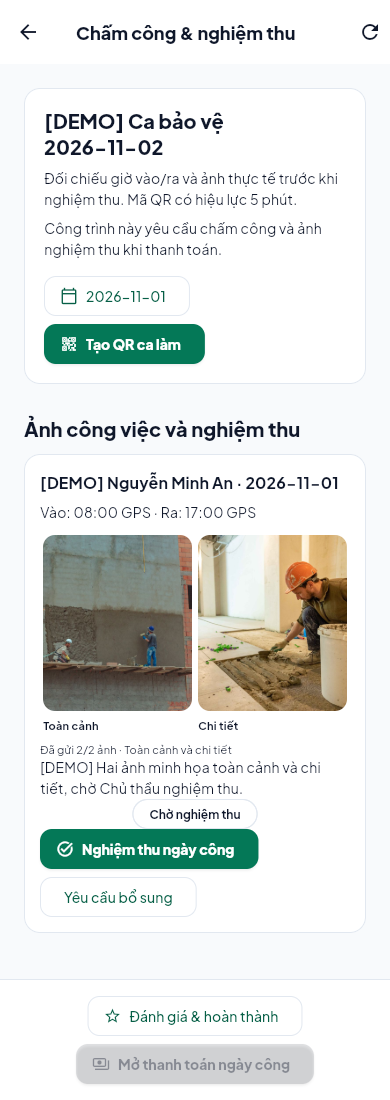
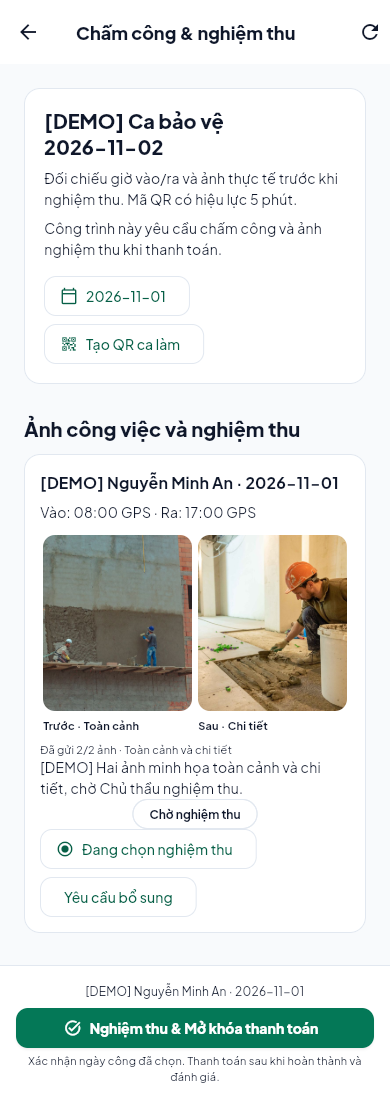
feat: hoan thien bo cuc gon va cap nhat 20 man hinh Tho Xay

diff --git a/mobile_app/lib/widgets/job_card.dart b/mobile_app/lib/widgets/job_card.dart
@@ -35,11 +35,36 @@ class JobCard extends StatelessWidget {
   Widget build(BuildContext context) {
     final palette = AppPalette.of(context);
     final color = Theme.of(context).colorScheme.primary;
+    void open() {
+      if (onTap != null) {
+        onTap!();
+      } else {
+        showJobDetails<void>(
+          context,
+          job,
+          api: api,
+          canContactContractor: canContactContractor,
+          action: action,
+          actionBuilder: detailsActionBuilder,
+        );
+      }
+    }
+
+    Widget detailsLink() => TextButton.icon(
+      style: TextButton.styleFrom(
+        padding: EdgeInsets.zero,
+        minimumSize: const Size(44, 40),
+        visualDensity: VisualDensity.compact,
+      ),
+      onPressed: open,
+      icon: const Icon(Icons.arrow_outward_rounded, size: 14),
+      label: const Text('Xem chi tiết'),
+    );
     return Padding(
       padding: const EdgeInsets.only(bottom: 12),
       child: DesignReveal(
         child: InkWell(
-          onTap: previewOnly ? onTap : null,
+          onTap: previewOnly ? open : null,
           borderRadius: BorderRadius.circular(16),
           child: DesignSurface(
             padding: const EdgeInsets.all(16),
@@ -93,12 +118,36 @@ class JobCard extends StatelessWidget {
                 ),
                 const SizedBox(height: 8),
                 Text(
-                  '${job.address} · ${job.jobType} · ${job.requiredWorkers} thợ',
+                  previewOnly
+                      ? job.address
+                      : '${job.address} · ${job.jobType} · ${job.requiredWorkers} thợ',
                   maxLines: 2,
                   overflow: TextOverflow.ellipsis,
                   style: TextStyle(fontSize: 11, color: palette.muted),
                 ),
-                if (job.startsOn != null)
+                if (previewOnly)
+                  Padding(
+                    padding: const EdgeInsets.only(top: 8),
+                    child: Container(
+                      padding: const EdgeInsets.symmetric(
+                        horizontal: 8,
+                        vertical: 4,
+                      ),
+                      decoration: BoxDecoration(
+                        color: color.withValues(alpha: .08),
+                        borderRadius: BorderRadius.circular(8),
+                      ),
+                      child: Text(
+                        job.jobType,
+                        style: TextStyle(
+                          fontSize: 11,
+                          color: color,
+                          fontWeight: FontWeight.w600,
+                        ),
+                      ),
+                    ),
+                  ),
+                if (job.startsOn != null && !previewOnly)
                   Padding(
                     padding: const EdgeInsets.only(top: 4),
                     child: Text(
@@ -135,7 +184,7 @@ class JobCard extends StatelessWidget {
                         ],
                       ),
                     ),
-                    if (!previewOnly) primaryAction ?? action,
+                    if (previewOnly) detailsLink() else primaryAction ?? action,
                   ],
                 ),
                 if (primaryAction != null)
@@ -148,28 +197,8 @@ class JobCard extends StatelessWidget {
                     ),
                     children: [action],
                   ),
-                Align(
-                  alignment: Alignment.centerLeft,
-                  child: TextButton.icon(
-                    style: TextButton.styleFrom(
-                      padding: EdgeInsets.zero,
-                      minimumSize: const Size(44, 40),
-                      visualDensity: VisualDensity.compact,
-                    ),
-                    onPressed:
-                        onTap ??
-                        () => showJobDetails<void>(
-                          context,
-                          job,
-                          api: api,
-                          canContactContractor: canContactContractor,
-                          action: action,
-                          actionBuilder: detailsActionBuilder,
-                        ),
-                    icon: const Icon(Icons.arrow_outward_rounded, size: 14),
-                    label: const Text('Xem chi tiết'),
-                  ),
-                ),
+                if (!previewOnly)
+                  Align(alignment: Alignment.centerLeft, child: detailsLink()),
               ],
             ),
           ),
@@ -278,9 +307,9 @@ Future<T?> showJobDetails<T>(
                 const SizedBox(height: 16),
                 _JobInfo(icon: Icons.location_on_outlined, label: job.address),
                 const SizedBox(height: 24),
-                const SectionIntro(
-                  title: 'Thông tin công việc',
-                  subtitle: 'Tìm hiểu yêu cầu trước khi nhận việc.',
+                Text(
+                  'Thông tin công việc',
+                  style: Theme.of(context).textTheme.titleMedium,
                 ),
                 const SizedBox(height: 8),
                 Text(

diff --git a/mobile_app/test/job_action_layout_test.dart b/mobile_app/test/job_action_layout_test.dart
@@ -1,0 +1,50 @@
+import 'package:flutter/material.dart';
+import 'package:flutter_test/flutter_test.dart';
+import 'package:tho_xay_mobile/widgets/job_application_actions.dart';
+
+void main() {
+  testWidgets(
+    'sticky job actions fit compact screens and large text with one primary action',
+    (tester) async {
+      tester.view.devicePixelRatio = 1;
+      addTearDown(tester.view.resetPhysicalSize);
+      addTearDown(tester.view.resetDevicePixelRatio);
+      var applies = 0, offers = 0;
+      for (final width in [320.0, 390.0, 1024.0]) {
+        tester.view.physicalSize = Size(width, 800);
+        await tester.pumpWidget(
+          MaterialApp(
+            builder: (context, child) => MediaQuery(
+              data: MediaQuery.of(context)
+                  .copyWith(textScaler: const TextScaler.linear(1.5)),
+              child: child!,
+            ),
+            home: Scaffold(
+              bottomNavigationBar: Padding(
+                padding: const EdgeInsets.all(16),
+                child: JobApplicationActions(
+                  onApply: () => applies++,
+                  onNegotiate: () => offers++,
+                  onChat: null,
+                ),
+              ),
+            ),
+          ),
+        );
+        await tester.pumpAndSettle();
+        expect(tester.takeException(), isNull);
+        expect(find.byType(FilledButton), findsOneWidget);
+        expect(
+          tester
+              .widget<IconButton>(find.byKey(const ValueKey('job-detail-chat')))
+              .onPressed,
+          isNull,
+        );
+        await tester.tap(find.text('Thương lượng giá'));
+        await tester.tap(find.text('Ứng tuyển ngay'));
+      }
+      expect(applies, 3);
+      expect(offers, 3);
+    },
+  );
+}

diff --git a/mobile_app/lib/widgets/auth_shell.dart b/mobile_app/lib/widgets/auth_shell.dart
@@ -57,14 +57,10 @@ class AuthShell extends StatelessWidget {
                           crossAxisAlignment: CrossAxisAlignment.start,
                           children: [
                             Text(
-                              'Thợ Xây',
-                              style: Theme.of(context).textTheme.headlineSmall
-                                  ?.copyWith(fontSize: 24),
-                            ),
-                            Text(
                               'Kết nối tay nghề, dựng xây uy tín',
                               style: TextStyle(
-                                fontSize: 11,
+                                fontSize: 13,
+                                height: 1.5,
                                 color: palette.muted,
                               ),
                             ),

diff --git a/mobile_app/lib/widgets/brand_logo.dart b/mobile_app/lib/widgets/brand_logo.dart
@@ -28,17 +28,11 @@ class BrandHeader extends StatelessWidget {
   final String title;
 
   @override
-  Widget build(BuildContext context) => Row(
-    mainAxisSize: MainAxisSize.min,
-    children: [
-      BrandLogo(
-        height: 32,
-        onDark: Theme.of(context).brightness == Brightness.dark,
-      ),
-      const SizedBox(width: 8),
-      Flexible(
-        child: Text(title, maxLines: 1, overflow: TextOverflow.ellipsis),
-      ),
-    ],
+  Widget build(BuildContext context) => Semantics(
+    label: '$title · Thợ Xây',
+    child: BrandLogo(
+      height: 36,
+      onDark: Theme.of(context).brightness == Brightness.dark,
+    ),
   );
 }

diff --git a/mobile_app/lib/widgets/home_navigation.dart b/mobile_app/lib/widgets/home_navigation.dart
@@ -209,15 +209,6 @@ class _HomeNavigationState extends State<HomeNavigation>
               child: Row(
                 children: [
                   const BrandLogo(height: 32),
-                  const SizedBox(width: 10),
-                  const Text(
-                    'Thợ Xây',
-                    style: TextStyle(
-                      fontSize: 19,
-                      fontWeight: FontWeight.w800,
-                      letterSpacing: -.7,
-                    ),
-                  ),
                   const SizedBox(width: 32),
                   Expanded(child: bar),
                 ],

diff --git a/mobile_app/web/index.html b/mobile_app/web/index.html
@@ -47,7 +47,7 @@
 </head>
 <body>
   <div id="thoxay-boot" role="status" aria-live="polite">
-    <img src="branding/logo_thoxay_transparent.png" alt="Logo Thợ Xây" width="112" height="84">
+    <img src="branding/logo_thoxay_transparent.png" alt="Logo Thợ Xây" width="160" height="70" style="object-fit:contain">
     <strong>Thợ Xây</strong>
     <p>Đang mở không gian của bạn…</p>
     <div class="boot-track" aria-hidden="true"></div>
